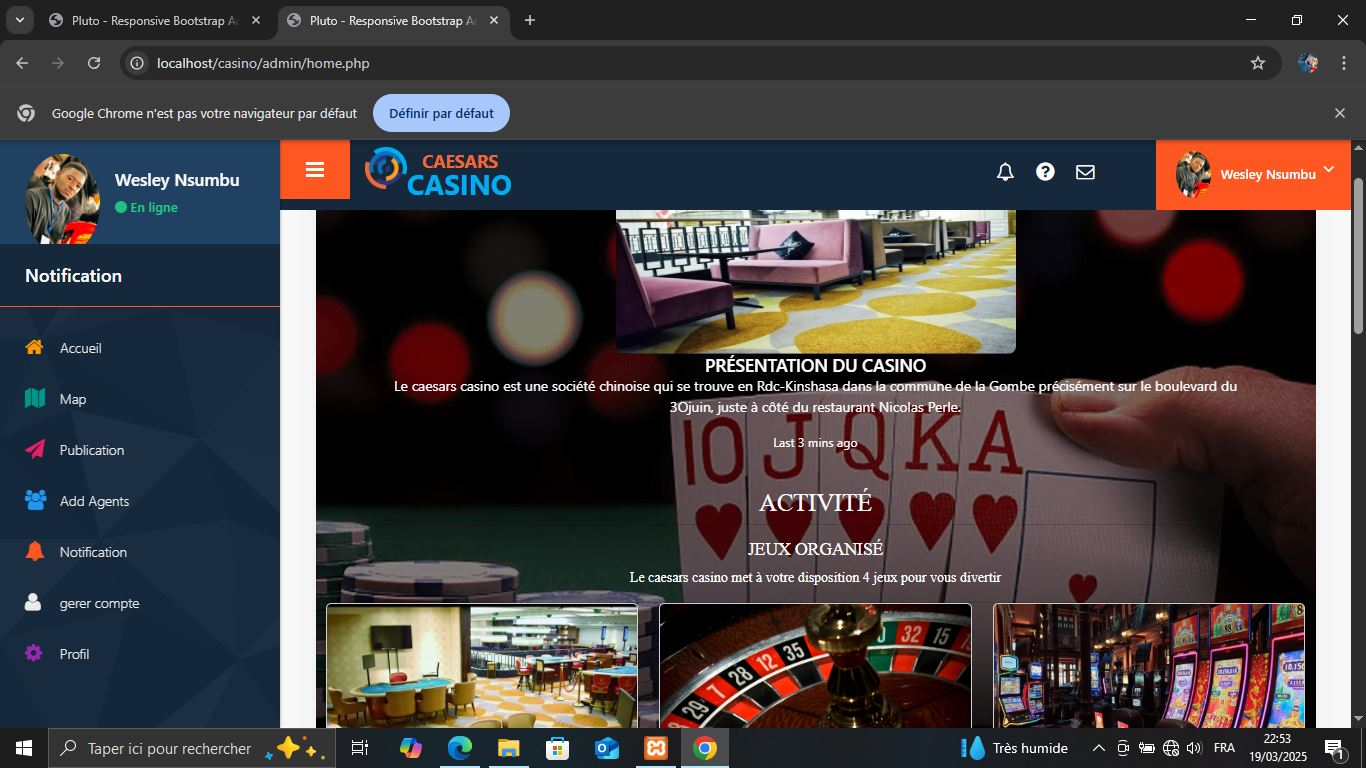
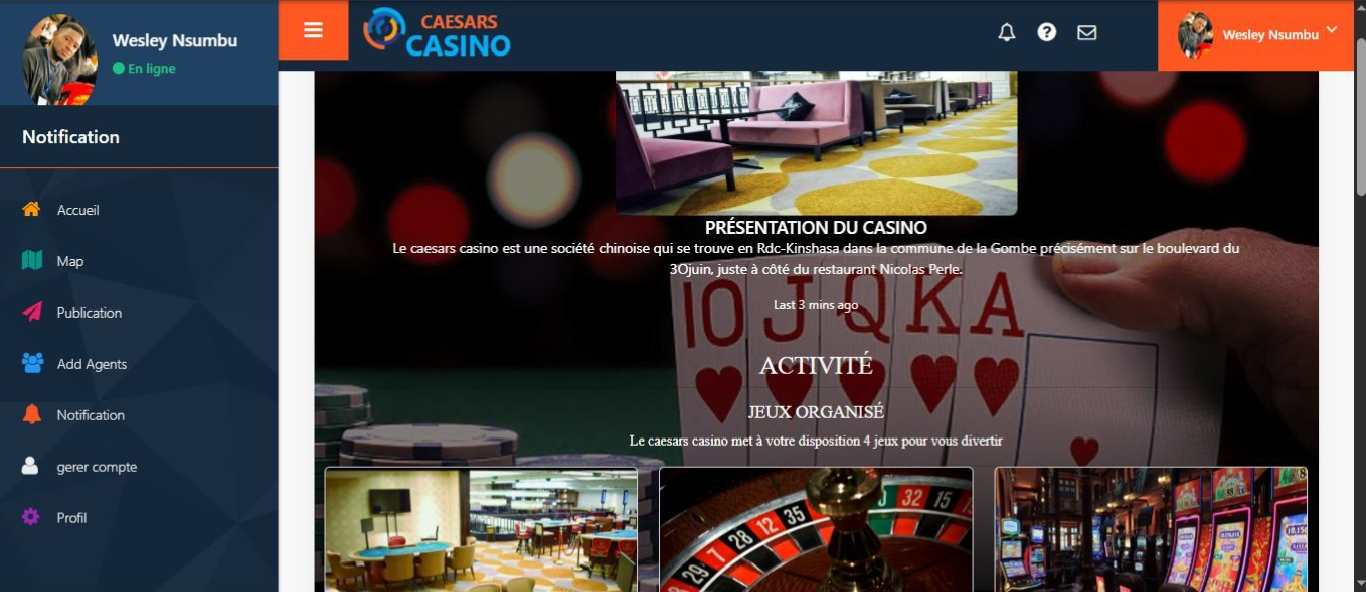
feat: add new portfolio projects

diff --git a/ndex.html b/ndex.html
@@ -59,7 +59,7 @@
 
     <section id="about" class="bg-gray-50 py-20 px-4">
       <div class="max-w-6xl mx-auto text-center">
-        <h2 class="text-3xl md:text-4xl font-bold mb-4 uppercase">A PROPOS DE MOI</h2>
+        <h2 class="text-3xl md:text-4xl font-bold mb-4 uppercase">À PROPOS DE MOI</h2>
         <div class="w-16 h-1 bg-purple-600 mx-auto mb-6 rounded"></div>
         <p class="text-gray-600 max-w-3xl mx-auto">
             Vous trouverez ici plus d'informations sur moi, ce que je fais et mes compétences actuelles, principalement en termes de programmation et de technologie.
@@ -171,7 +171,7 @@
             
                 <!-- Project content -->
                 <div class="text-left order-1 md:order-2">
-                  <h3 class="text-2xl font-bold mb-4">CHM</h3>
+                  <h3 class="text-2xl font-bold mb-4">X Clone</h3>
                   <p class="text-gray-700 mb-6">
                     Dans le cadre de mon projet de chef-d’œuvre à la fin de ma formation à la KADEA, j’ai réalisé une application complète inspirée du réseau social X (anciennement Twitter). Ce projet m’a permis de mettre en pratique l’ensemble des compétences acquises tout au long de mon parcours, notamment en développement web et mobile fullstack.
                   </p>
@@ -195,6 +195,50 @@
                   <p class="text-gray-700 mb-6">
                     Fashion Boutique est un site e-commerce que j’ai conçu durant ma formation à la KADEA, entièrement dédié à la vente de vêtements et accessoires de mode.
                     J’ai travaillé sur le design responsive, l’intégration du catalogue produit, ainsi que la gestion du panier et des utilisateurs, en utilisant des technologies modernes pour offrir une expérience fluide et élégante.
+                  </p>
+                  <a href="#"
+                     class="bg-purple-600 hover:bg-purple-700 text-white px-6 py-3 rounded-lg font-semibold shadow transition duration-300 inline-block">
+                    Case Study
+                  </a>
+                </div>
+                
+              </div>
+
+              <!-- Project Item -->
+              <div class="max-w-6xl mx-auto mt-16 grid md:grid-cols-2 items-center gap-10 px-4 md:px-0">
+                <!-- Project image -->
+                <div class="w-full order-2 md:order-1">
+                  <img src="assets/images/attendance.png" alt="Attendance project screenshot" class="rounded-xl shadow-lg w-full">
+                </div>
+            
+                <!-- Project content -->
+                <div class="text-left order-1 md:order-2">
+                  <h3 class="text-2xl font-bold mb-4">Attendance</h3>
+                  <p class="text-gray-700 mb-6">
+                    J'ai assuré la gestion complète du site attendance.kadea.academy, une plateforme de suivi des présences pour la KADEA Academy.
+                    Mes responsabilités incluaient la maintenance et les mises à jour régulières du site, ainsi que la configuration d'un système d'envoi automatique de mails pour notifier les utilisateurs et optimiser la communication.
+                  </p>
+                  <a href="#"
+                     class="bg-purple-600 hover:bg-purple-700 text-white px-6 py-3 rounded-lg font-semibold shadow transition duration-300 inline-block">
+                    Case Study
+                  </a>
+                </div>
+                
+              </div>
+
+              <!-- Project Item -->
+              <div class="max-w-6xl mx-auto mt-16 grid md:grid-cols-2 items-center gap-10 px-4 md:px-0">
+                <!-- Project image -->
+                <div class="w-full order-2 md:order-1">
+                  <img src="assets/images/certification.png" alt="Certification project screenshot" class="rounded-xl shadow-lg w-full">
+                </div>
+            
+                <!-- Project content -->
+                <div class="text-left order-1 md:order-2">
+                  <h3 class="text-2xl font-bold mb-4">Certification Platform</h3>
+                  <p class="text-gray-700 mb-6">
+                    J'ai contribué au développement de certification.kinshasadigital.academy, en prenant en charge la partie Front-end et l'implémentation de la génération automatique de certificats à partir des données utilisateurs.
+                    J'ai également développé un système d'import de données depuis des fichiers CSV et participé à la modélisation et conception de la base de données pour garantir une structure robuste et évolutive.
                   </p>
                   <a href="#"
                      class="bg-purple-600 hover:bg-purple-700 text-white px-6 py-3 rounded-lg font-semibold shadow transition duration-300 inline-block">
@@ -269,7 +313,7 @@
       
       <div class="border-t border-gray-800 pt-8 text-center">
         <p class="text-gray-400">
-          © Copyright 2025, Made by Wesley Nsumbu. All rights reserved.
+          © Copyright <span id="current-year"></span>, Made by Wesley Nsumbu. All rights reserved.
         </p>
       </div>
     </div>
@@ -286,11 +330,11 @@
   </div>
 
   <!-- Chat ou bouton interactif -->
-  <div class="fixed bottom-6 right-6">
+  <!-- <div class="fixed bottom-6 right-6">
     <button class="flex items-center bg-white shadow-lg px-4 py-2 rounded-full text-sm font-medium space-x-2 hover:bg-purple-100 transition">
       <span>Discutez avec moi 👋</span>
     </button>
-  </div>
+  </div> -->
 
 <script src="assets/js/app.js"></script>
 </body>

diff --git a/assets/js/app.js b/assets/js/app.js
@@ -31,3 +31,6 @@ document.querySelectorAll('a[href^="#"]').forEach(anchor => {
     }
   });
 });
+
+// Mise à jour automatique de l'année
+document.getElementById('current-year').textContent = new Date().getFullYear();
